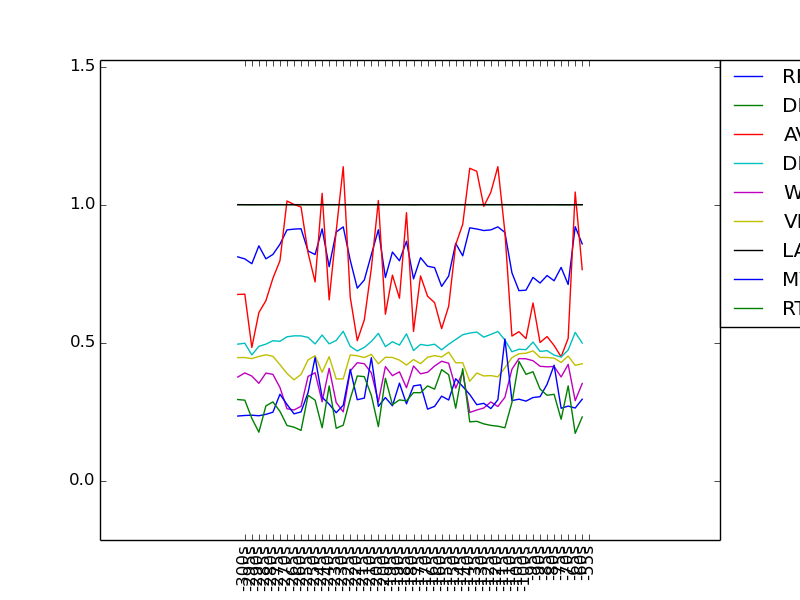
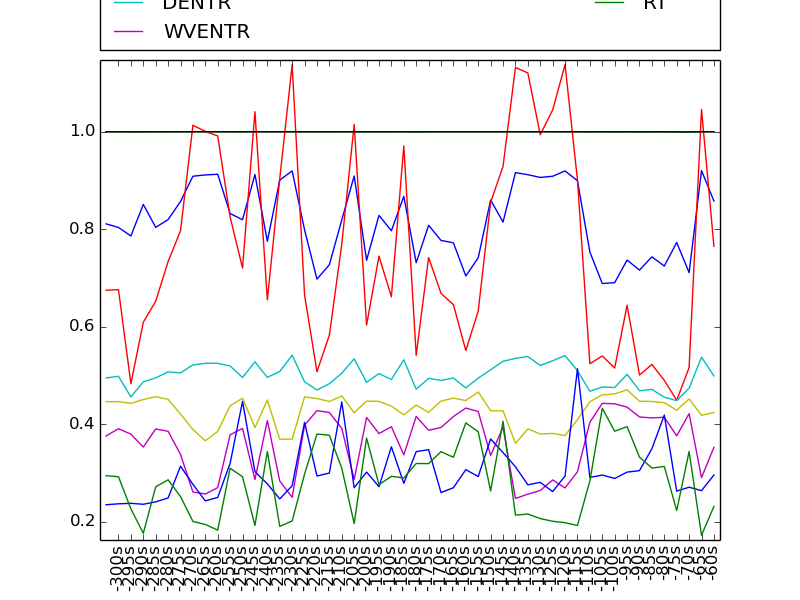
mkm

diff --git a/data_extraction/make_rqa_plots.py b/data_extraction/make_rqa_plots.py
@@ -21,7 +21,7 @@ rt = [i[9]/100.00 for i in pay]
 
 plt.figure(0)
 plt.xticks([i for i in xrange(51)][1:],labels,rotation='vertical')
-plt.margins(0.4)
+plt.margins(0.01)
 plt.plot(rr,label="RR")
 plt.plot(det,label="DET")
 plt.plot(avgdl,label="AVGDL")
@@ -31,6 +31,6 @@ plt.plot(ventr,label="VENTR")
 plt.plot(lam,label="LAM")
 plt.plot(mvert,label="MVERT")
 plt.plot(rt,label="RT")
-plt.legend(bbox_to_anchor=(1,0,3,1),loc=2, borderaxespad=0.)
+plt.legend(bbox_to_anchor=(0,1.02,1.,.202),loc=3,ncol=2,mode='expand', borderaxespad=0.)
 
 plt.savefig('rqa_vt.png')
